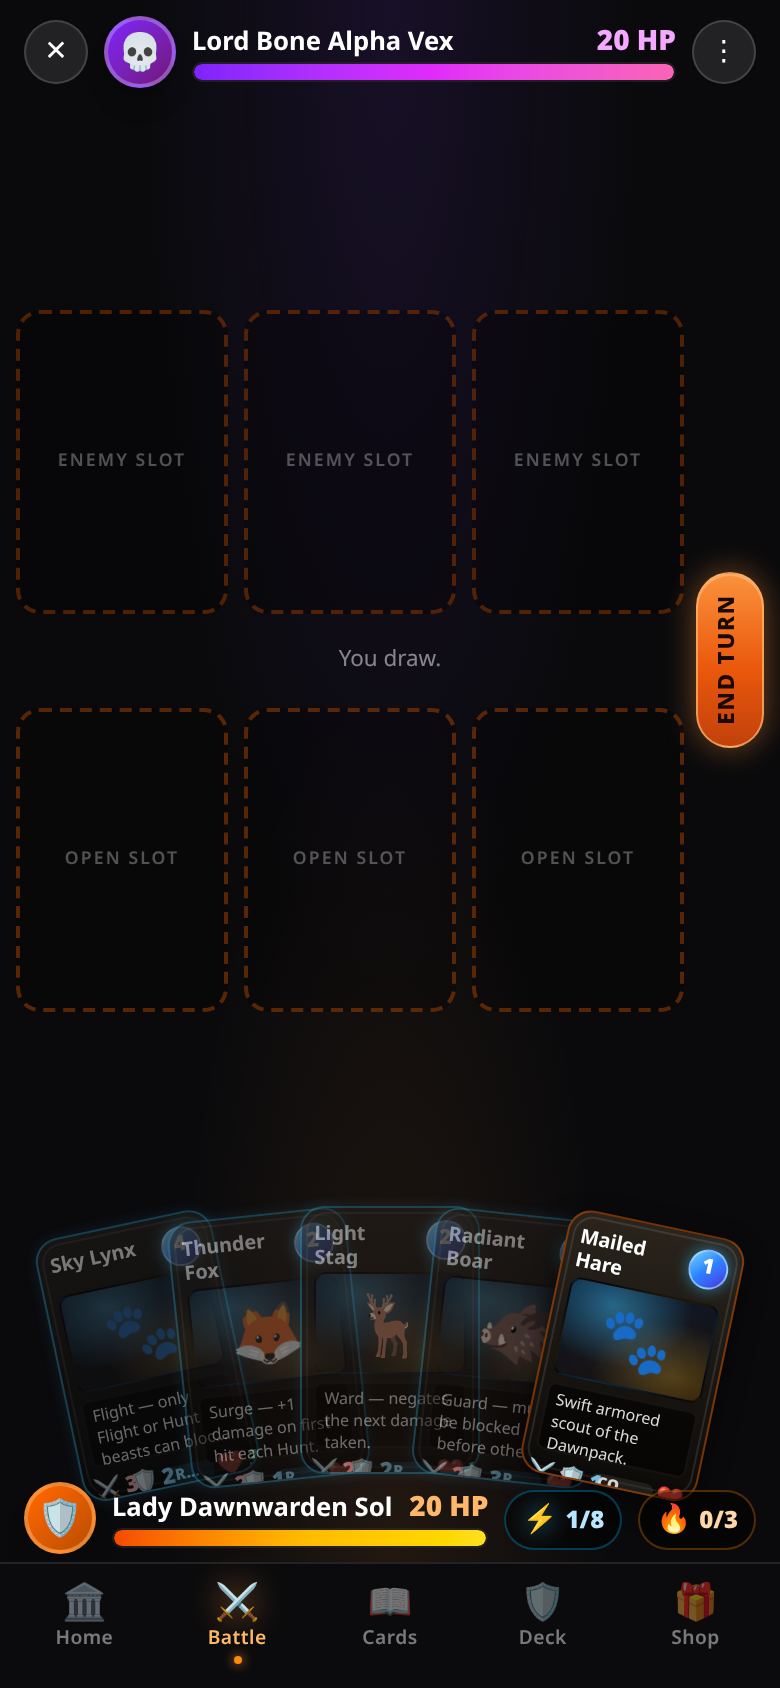
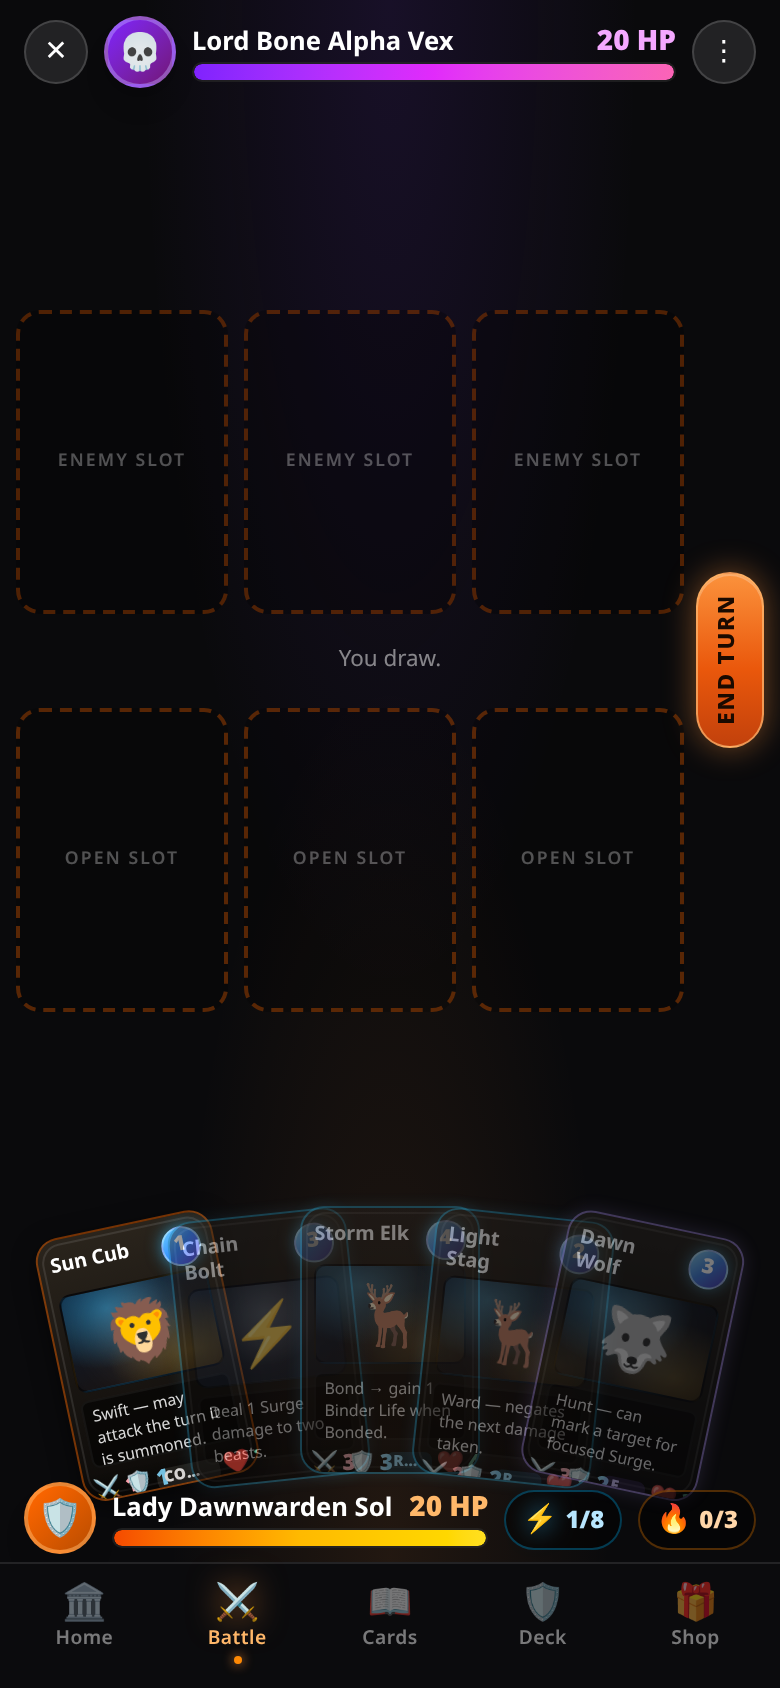
Docs + Battle preview screenshots for premium shell

diff --git a/README.md b/README.md
@@ -1,8 +1,10 @@
 # Stormbound
 
-Mobile-first web TCG — **Dawnpack** vs **Pack of the Dead**. Client-only React + Vite + TypeScript + Tailwind MVP.
+Mobile-first web TCG — **Dawnpack** vs **Pack of the Dead**. Client-only React + Vite + TypeScript + Tailwind.
 
-Standalone app at `/workspace/stormbound`. Does **not** touch ab-creative-world or abbytes sites.
+Live: **https://abbytes.github.io/stormbound/**
+
+Standalone app at `/workspace/stormbound`. Does **not** touch ab-creative-world or other sites.
 
 ## Quick start
 
@@ -12,45 +14,36 @@ npm install
 npm run dev
 ```
 
-Open the local URL (usually `http://localhost:5173`) on a phone or narrow browser window.
-
 ### Production build
 
 ```bash
-npm run build
+npm run build   # base: /stormbound/
 npm run preview
 ```
 
-`preview` serves the `dist/` folder. You can also static-serve `dist/` with any HTTP server.
+Deploy: copy `dist/` (+ `.nojekyll`) to the `gh-pages` branch and force-push.
 
-## What’s in the MVP
+## UI shell
 
-- **Home** — title, Play Tutorial (Dawn or Pack), Binder
-- **Battle** — 5-slot Ashfall-style floor, Storm economy, draw/main/hunt/dusk loop, simple AI opponent, win by Binder HP 0 or 3 Storm Charges
-- **Binder** — page-turn book UI (Dawnpack pp.1–2, Pack pp.3–4, Relics & Storm), tap → inspect overlay (Cost · ATK/DEF/HP · ability · rarity · tags)
-- **Card pool** — 20-card tutorial decks + 40-card constructed data (IDs 1–40)
-- **SFX** — page turn, inspect, Bond, Surge, Apex, Dawn horn (stubs in `public/audio/`)
+Premium portrait TCG layout:
 
-## Factions & keywords
+- Enemy / player binder headers with gradient HP bars
+- 3-lane battlefield (Enemy Slot / Open Slot dashed outlines)
+- Tall cards: name · cost gem · art · ability · ATK / Guard / rarity / HP
+- APEX rarity thick gold glow border
+- Selected-card action row (Attack / Guard / Apex)
+- Vertical **End Turn** on the right edge
+- Fanned hand, Storm ⚡ + Apex 🔥 resources
+- Bottom nav: Home · Battle · Cards · Deck · Shop
 
-- Dawnpack (cyan) · Pack of the Dead (violet)
-- Keywords: Surge, Ward, Hunt, Bond, Apex, Swift, Flight, Guard
+## Engine
 
-## Project layout
+- Turn loop: Dawn → Draw → Main → Hunt → Dusk
+- Win: binder HP 0 or 3 Storm Charges (Apex power)
+- Tutorial decks + 40-card constructed pool (IDs 1–40)
+- Page-turn binder under **Cards**
+- SFX in `public/audio/` (paths honor Vite `base`)
 
-```
-src/data/cards.ts     — all card defs + decks + binder pages
-src/game/engine.ts    — turn loop + AI
-src/game/audio.ts     — SFX helpers
-src/screens/          — Home, Battle, Binder
-src/components/       — CardFace, BoardSlot, InspectOverlay
-public/audio/         — wav stubs from stormbound-sfx
-```
+## Preview shots
 
-## Known gaps
-
-- Placeholder gradient art (no illustrated portraits yet)
-- AI is greedy/simple; blockers are auto-assigned
-- Constructed deck builder not in MVP (pool is in data for later)
-- Some relic/apex edge cases simplified for demo stability
-- Autoplay may mute SFX until first user tap
+See `preview/battle_empty.png` and `preview/battle_action_row.png`.
